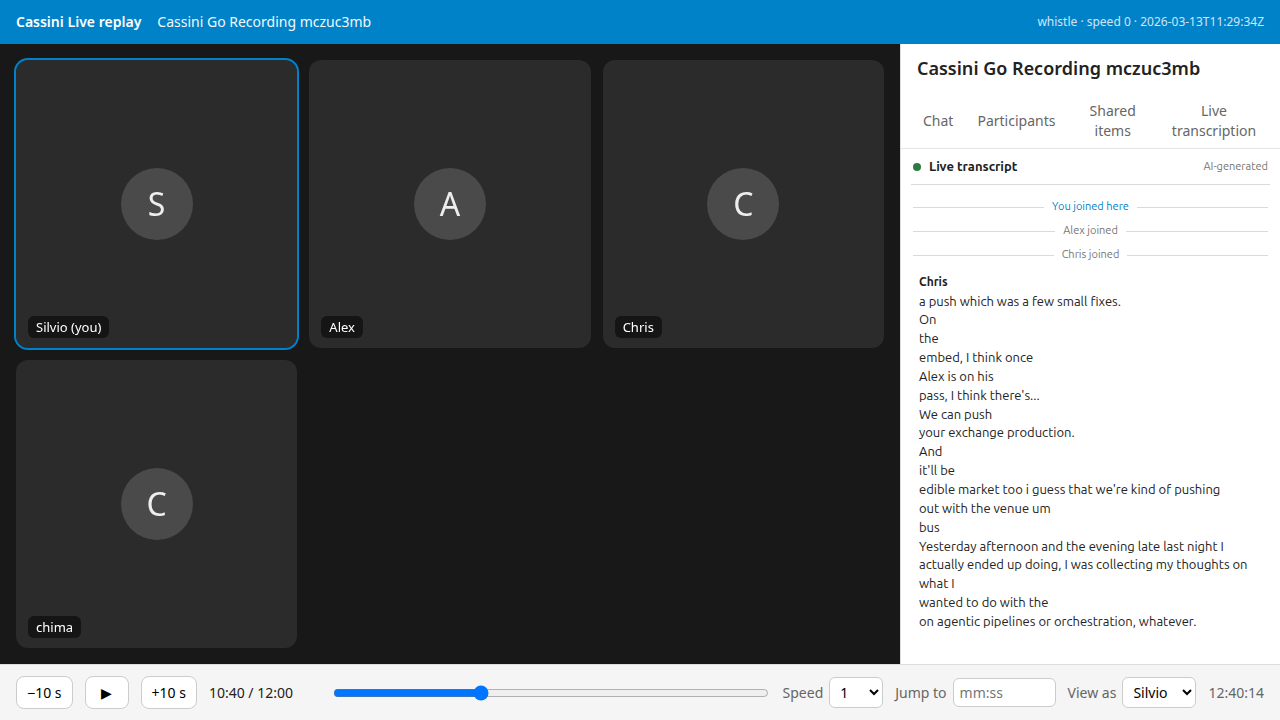
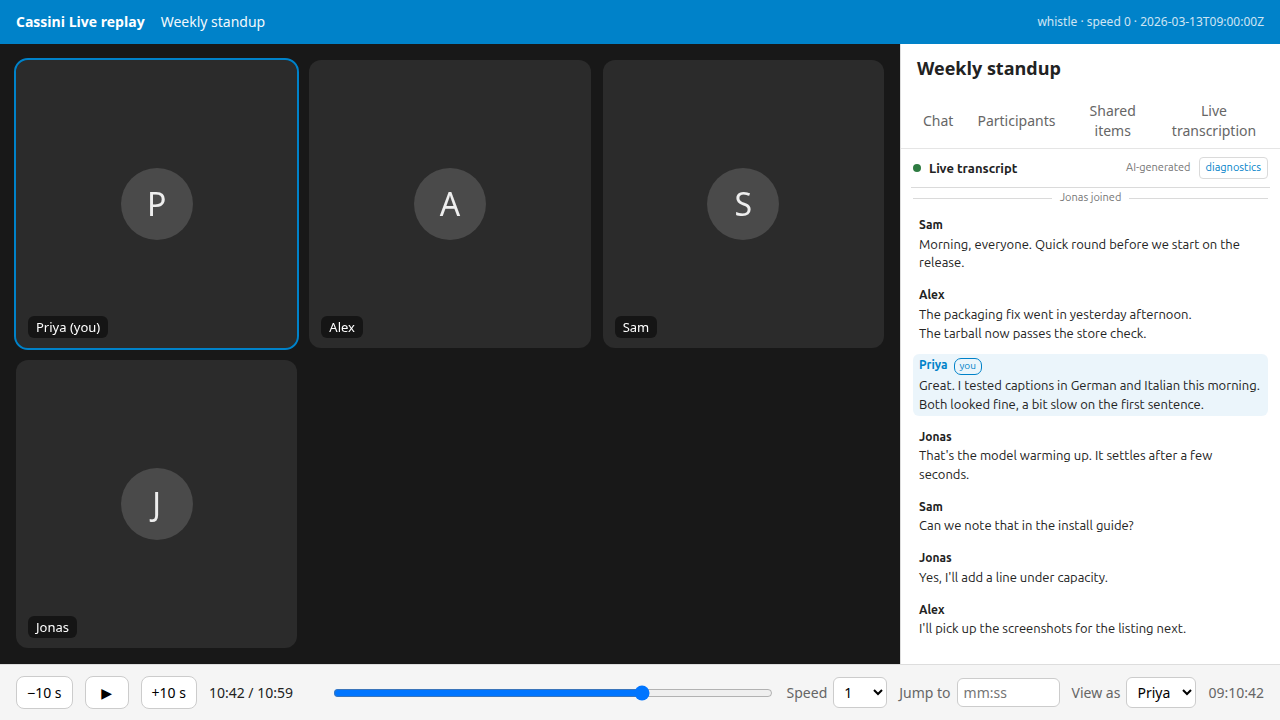
docs(replay): use a made-up standup in the example and screenshot
The replay screenshot and timeline example showed a real internal meeting.
Replace both with an invented standup between fictional participants.

diff --git a/docs/replay.md b/docs/replay.md
@@ -60,14 +60,14 @@ Engines: Whistle needs `models/whistle.cact` and `models/libneedle3.so`
 ```json
 {
   "format": "cassini-live-replay/1",
-  "source": { "path": "…mkv", "title": "Cassini Go Recording mczuc3mb", "sessionId": "…", "startedAt": "2026-03-13T11:29:34Z" },
+  "source": { "path": "…mkv", "title": "Weekly standup", "sessionId": "…", "startedAt": "2026-03-13T09:00:00Z" },
   "window": { "fromMs": 600000, "toMs": 720000 },
   "engine": { "id": "whistle", "seats": 2, "language": "en", "speed": 0 },
-  "participants": [ { "sid": "silviot", "name": "Silvio", "userId": "silviot", "joinMs": 200 }, … ],
+  "participants": [ { "sid": "priya", "name": "Priya", "userId": "priya", "joinMs": 200 }, … ],
   "events": [
-    { "at": 600000, "type": "join", "speakerSessionId": "silviot" },
-    { "at": 605300, "type": "partial", "speakerSessionId": "Chris", "message": "a push", "langId": "en" },
-    { "at": 605300, "type": "final", "speakerSessionId": "Chris", "message": "a push which was a few small fixes.", "langId": "en" },
+    { "at": 600000, "type": "join", "speakerSessionId": "priya" },
+    { "at": 605300, "type": "partial", "speakerSessionId": "alex", "message": "The packaging fix", "langId": "en" },
+    { "at": 605300, "type": "final", "speakerSessionId": "alex", "message": "The packaging fix went in yesterday afternoon.", "langId": "en" },
     …
   ],
   "stats": { "finals": 72, "partials": 102, "elapsedS": 31.6, "framesDelivered": { … }, "backend": { …/status counters… } }
@@ -85,7 +85,7 @@ diff two of them to compare engines, or feed one to the viewer.
 ```sh
 cd ui && npm ci && npm run build
 npm run replay -- ../standup-whistle.json           # open http://127.0.0.1:4318/call/replay
-npm run replay -- ../standup-whistle.json --as Chris --port 4319
+npm run replay -- ../standup-whistle.json --as Alex --port 4319
 ```
 
 The page has Nextcloud's CSP posture and the sidebar structure the panel
@@ -109,7 +109,7 @@ way the loader bookmarklet mounts it. The server owns the meeting clock:
   `you` chip and their join reads "You joined here". `?t=mm:ss` in the URL
   opens at that time.
 
-![The replay viewer at 10:40 of a standup](replay-viewer.png)
+![The replay viewer at 10:42 of a standup, with example names and lines](replay-viewer.png)
 
 ## What it is for
 
